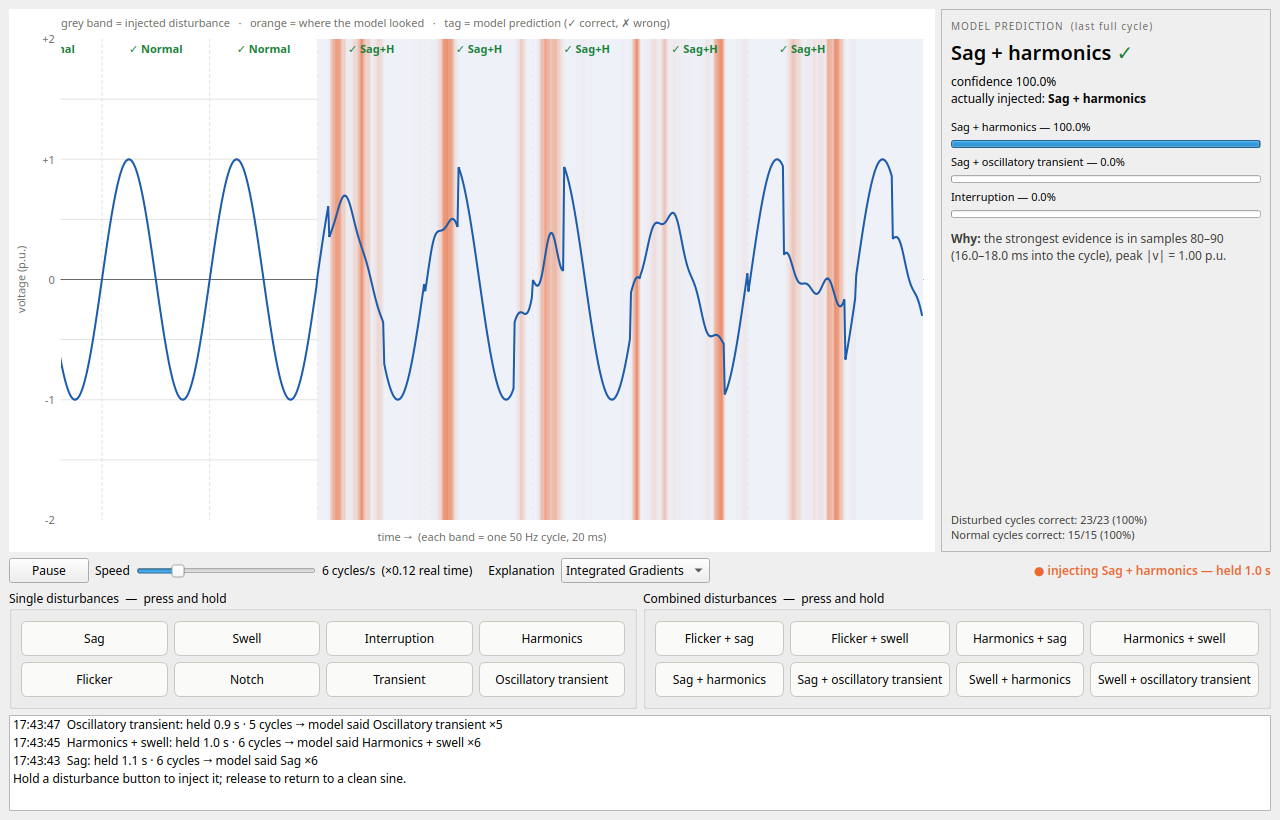
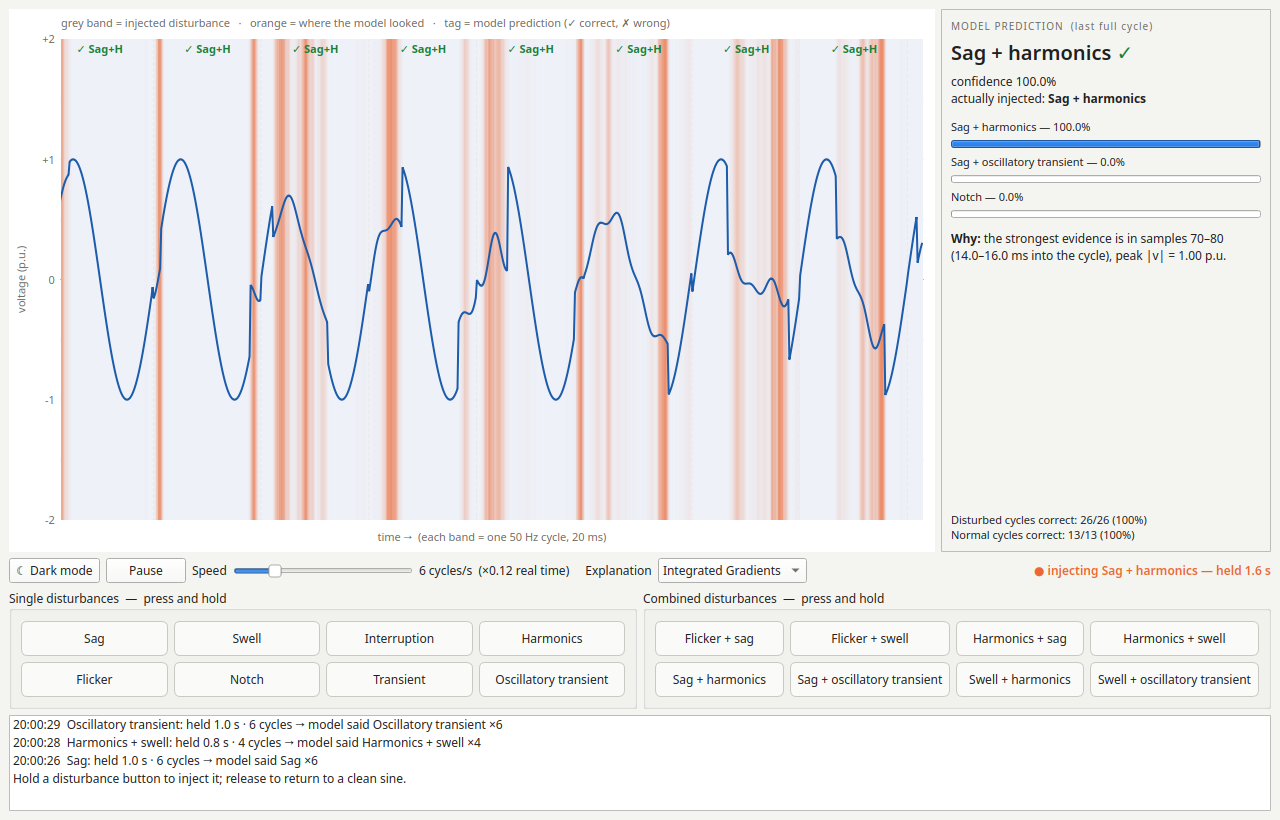
GUI: add light/dark theme toggle with explicit palette

diff --git a/src/gui.py b/src/gui.py
@@ -16,8 +16,8 @@ import time
 from collections import Counter, deque
 
 import numpy as np
-from PySide6.QtCore import QElapsedTimer, QPointF, QRectF, Qt, QTimer
-from PySide6.QtGui import QColor, QFont, QPainter, QPainterPath, QPen
+from PySide6.QtCore import QElapsedTimer, QPointF, QRectF, QSettings, Qt, QTimer
+from PySide6.QtGui import QColor, QFont, QPainter, QPainterPath, QPalette, QPen
 from PySide6.QtWidgets import (QApplication, QComboBox, QFrame, QGridLayout, QGroupBox, QHBoxLayout,
                                QLabel, QListWidget, QMainWindow, QMessageBox, QProgressBar, QPushButton,
                                QSlider, QVBoxLayout, QWidget)
@@ -29,9 +29,42 @@ VISIBLE_CYCLES = 8
 FRAME_MS = 30
 SINGLE = ["Sag", "Swell", "Interruption", "Harmonics", "Flicker", "Notch", "Transient", "Oscillatory_Transient"]
 
-INK, MUTED, GRID = QColor("#1f1f1e"), QColor("#6b6a64"), QColor("#e4e3de")
-WAVE, ATTR, INJECT = QColor("#1c5cab"), QColor("#eb6834"), QColor("#eef1f8")
-OK, BAD = QColor("#1a7f37"), QColor("#c0392b")
+# every colour in the app comes from the active theme; nothing is left to the OS palette
+THEMES = {
+    "light": dict(window="#f4f4f1", base="#ffffff", text="#1f1f1e", muted="#6b6a64", grid="#e4e3de",
+                  wave="#1c5cab", attr="#eb6834", inject="#eef1f8", ok="#1a7f37", bad="#c0392b",
+                  button="#fafaf8", border="#c9c8c1", accent="#2a78d6"),
+    "dark": dict(window="#202124", base="#17181a", text="#e8e8e6", muted="#a3a39d", grid="#34363b",
+                 wave="#6ea8ff", attr="#ff8a4c", inject="#262c3a", ok="#3fb950", bad="#ff6b5e",
+                 button="#2b2d31", border="#4a4c52", accent="#4c8fe6"),
+}
+T = dict(THEMES["light"])  # active theme, updated in place by apply_theme()
+
+
+def apply_theme(app, name):
+    """Set the Qt palette and the app stylesheet from THEMES[name]."""
+    T.update(THEMES[name])
+    pal = QPalette()
+    for role, key in ((QPalette.Window, "window"), (QPalette.WindowText, "text"), (QPalette.Base, "base"),
+                      (QPalette.AlternateBase, "window"), (QPalette.Text, "text"), (QPalette.Button, "button"),
+                      (QPalette.ButtonText, "text"), (QPalette.Highlight, "accent"),
+                      (QPalette.ToolTipBase, "base"), (QPalette.ToolTipText, "text"),
+                      (QPalette.PlaceholderText, "muted"), (QPalette.Mid, "border"), (QPalette.Dark, "border")):
+        pal.setColor(role, QColor(T[key]))
+    pal.setColor(QPalette.HighlightedText, QColor("white"))
+    for role in (QPalette.WindowText, QPalette.Text, QPalette.ButtonText):
+        pal.setColor(QPalette.Disabled, role, QColor(T["muted"]))
+    app.setPalette(pal)
+    app.setStyleSheet(f"""
+        QPushButton[dist="true"] {{ padding:8px 6px; border:1px solid {T['border']}; border-radius:6px;
+                                    background:{T['button']}; color:{T['text']}; }}
+        QPushButton[dist="true"]:hover {{ border-color:{T['accent']}; }}
+        QPushButton[dist="true"]:pressed {{ background:{T['accent']}; color:white; border-color:{T['accent']}; }}
+        QLabel#caption {{ color:{T['muted']}; font-size:10px; letter-spacing:1px; }}
+        QLabel#why, QLabel#stats {{ color:{T['text']}; }}
+        QLabel#stats {{ font-size:11px; }}
+        QLabel#holding {{ color:{T['attr']}; font-weight:600; }}
+    """)
 
 
 def short(name):
@@ -71,7 +104,7 @@ class Scope(QWidget):
     def paintEvent(self, _):
         p = QPainter(self)
         p.setRenderHint(QPainter.Antialiasing)
-        p.fillRect(self.rect(), Qt.white)
+        p.fillRect(self.rect(), QColor(T["base"]))
         plot = QRectF(52, 30, self.width() - 64, self.height() - 62)
         ymax = 2.0
         to_y = lambda v: plot.center().y() - max(-ymax, min(ymax, v)) / ymax * plot.height() / 2  # noqa: E731
@@ -82,10 +115,10 @@ class Scope(QWidget):
         to_x = lambda s: plot.left() + (s - offset) * px  # noqa: E731
 
         # axes: 0 and ±1 p.u.
-        p.setPen(QPen(GRID, 1))
+        p.setPen(QPen(QColor(T["grid"]), 1))
         for v in (-1.5, -1, -0.5, 0.5, 1, 1.5):
             p.drawLine(QPointF(plot.left(), to_y(v)), QPointF(plot.right(), to_y(v)))
-        p.setPen(QPen(MUTED, 1))
+        p.setPen(QPen(QColor(T["muted"]), 1))
         p.drawLine(QPointF(plot.left(), to_y(0)), QPointF(plot.right(), to_y(0)))
         p.setFont(QFont(p.font().family(), 8))
         for v in (-2, -1, 0, 1, 2):
@@ -103,31 +136,31 @@ class Scope(QWidget):
         for cycle, shown in self.cycles:
             x0, x1 = to_x(start), to_x(start + self.cycle_len)
             if cycle.true_class != NORMAL:                # injected disturbance band
-                p.fillRect(QRectF(x0, plot.top(), x1 - x0, plot.height()), INJECT)
+                p.fillRect(QRectF(x0, plot.top(), x1 - x0, plot.height()), QColor(T["inject"]))
             attr = {"ig": cycle.ig, "cam": cycle.cam}.get(self.attribution)
             if attr is not None and shown == self.cycle_len and cycle.true_class != NORMAL:
                 a = np.convolve(np.abs(attr), np.ones(5) / 5, mode="same")  # smooth 1 ms
                 a = a / (a.max() + 1e-9)
                 for i, w in enumerate(a):                 # attribution heat strip
-                    c = QColor(ATTR)
+                    c = QColor(T["attr"])
                     c.setAlphaF(float(w) ** 2 * 0.6)
                     p.fillRect(QRectF(to_x(start + i), plot.top(), px + 0.6, plot.height()), c)
-            p.setPen(QPen(GRID, 1, Qt.DashLine))
+            p.setPen(QPen(QColor(T["grid"]), 1, Qt.DashLine))
             p.drawLine(QPointF(x1, plot.top()), QPointF(x1, plot.bottom()))
             for i in range(shown):
                 pt = QPointF(to_x(start + i), to_y(float(cycle.samples[i])))
                 path.lineTo(pt) if path.elementCount() else path.moveTo(pt)
             if shown == self.cycle_len and cycle.pred_class:   # prediction tag
                 good = cycle.pred_class == cycle.true_class
-                p.setPen(OK if good else BAD)
+                p.setPen(QColor(T["ok" if good else "bad"]))
                 p.setFont(QFont(p.font().family(), 8, QFont.Bold))
                 p.drawText(QRectF(x0 + 2, plot.top() + 2, x1 - x0 - 4, 16), Qt.AlignCenter,
                            f"{'✓' if good else '✗'} {short(cycle.pred_class)}")
             start += self.cycle_len
-        p.setPen(QPen(WAVE, 2))
+        p.setPen(QPen(QColor(T["wave"]), 2))
         p.drawPath(path)
         p.setClipping(False)
-        p.setPen(MUTED)
+        p.setPen(QColor(T["muted"]))
         p.setFont(QFont(p.font().family(), 8))
         p.drawText(QRectF(plot.left(), 6, plot.width(), 18), Qt.AlignLeft,
                    "grey band = injected disturbance   ·   orange = where the model looked   ·   "
@@ -141,7 +174,7 @@ class PredictionPanel(QFrame):
         self.setFixedWidth(330)
         lay = QVBoxLayout(self)
         caption = QLabel("MODEL PREDICTION  (last full cycle)")
-        caption.setStyleSheet("color:#6b6a64; font-size:10px; letter-spacing:1px;")
+        caption.setObjectName("caption")
         self.pred = QLabel("—")
         self.pred.setStyleSheet("font-size:20px; font-weight:600;")
         self.pred.setWordWrap(True)
@@ -151,6 +184,7 @@ class PredictionPanel(QFrame):
         lay.addWidget(self.pred)
         lay.addWidget(self.truth)
         lay.addSpacing(6)
+        self.last = None
         self.bars = []
         for _ in range(3):
             name, bar = QLabel(""), QProgressBar()
@@ -164,16 +198,17 @@ class PredictionPanel(QFrame):
         lay.addSpacing(6)
         self.why = QLabel("")
         self.why.setWordWrap(True)
-        self.why.setStyleSheet("color:#3d3c38;")
+        self.why.setObjectName("why")
         lay.addWidget(self.why)
         lay.addStretch(1)
         self.stats = QLabel("")
-        self.stats.setStyleSheet("color:#3d3c38; font-size:11px;")
+        self.stats.setObjectName("stats")
         lay.addWidget(self.stats)
 
     def show_cycle(self, c, cycle_ms=20.0):
+        self.last = c
         good = c.pred_class == c.true_class
-        color = "#1a7f37" if good else "#c0392b"
+        color = T["ok" if good else "bad"]
         self.pred.setText(f"{pretty(c.pred_class)}  <span style='color:{color}'>{'✓' if good else '✗'}</span>")
         self.truth.setText(f"confidence {c.confidence:.1%}<br>actually injected: <b>{pretty(c.true_class)}</b>")
         for (name, bar), (cls, prob) in zip(self.bars, c.top3):
@@ -192,8 +227,9 @@ class PredictionPanel(QFrame):
 
 
 class MainWindow(QMainWindow):
-    def __init__(self, ckpt, speed):
+    def __init__(self, ckpt, speed, theme):
         super().__init__()
+        self.theme = theme
         self.setWindowTitle("PQD Explainer — live disturbance injection")
         self.stream = DisturbanceStream()
         self.clf = LiveClassifier(self.stream.class_names, self.stream.mean, self.stream.std, ckpt,
@@ -241,27 +277,40 @@ class MainWindow(QMainWindow):
         self.attr.addItems(["Integrated Gradients", "Class Activation Map", "No explanation"])
         self.attr.currentIndexChanged.connect(lambda i: setattr(self.scope, "attribution", ("ig", "cam", None)[i]))
         self.holding = QLabel("")
-        self.holding.setStyleSheet("color:#eb6834; font-weight:600;")
+        self.holding.setObjectName("holding")
+        self.theme_btn = QPushButton()
+        self.theme_btn.clicked.connect(lambda: self.set_theme("light" if self.theme == "dark" else "dark"))
+        row.addWidget(self.theme_btn)
+        self._theme_text()
         for w in (self.pause, QLabel("Speed"), self.speed, self.speed_label, QLabel("   Explanation"), self.attr):
             row.addWidget(w)
         row.addStretch(1)
         row.addWidget(self.holding)
         return row
 
+    def _theme_text(self):
+        self.theme_btn.setText("☀ Light mode" if self.theme == "dark" else "☾ Dark mode")
+
+    def set_theme(self, name):
+        self.theme = name
+        apply_theme(QApplication.instance(), name)
+        QSettings("pqd-explainer", "gui").setValue("theme", name)
+        self._theme_text()
+        if self.panel.last:
+            self.panel.show_cycle(self.panel.last)   # re-colour the ✓ / ✗
+        self.scope.update()
+
     def _speed_text(self, v):
         self.speed_label.setText(f"{v} cycles/s  (×{v / 50:.2f} real time)")
 
     def _buttons(self):
         row = QHBoxLayout()
-        style = ("QPushButton{padding:8px 6px; border:1px solid #c9c8c1; border-radius:6px; background:#fafaf8;}"
-                 "QPushButton:hover{border-color:#2a78d6;}"
-                 "QPushButton:pressed{background:#2a78d6; color:white; border-color:#2a78d6;}")
         combined = [n for n in self.stream.disturbances if n not in SINGLE]
         for title, names in (("Single disturbances", SINGLE), ("Combined disturbances", combined)):
             box, grid = QGroupBox(f"{title}  —  press and hold"), QGridLayout()
             for i, name in enumerate(names):
                 b = QPushButton(pretty(name))
-                b.setStyleSheet(style)
+                b.setProperty("dist", True)
                 b.setAutoRepeat(False)
                 b.pressed.connect(lambda n=name: self._press(n))
                 b.released.connect(lambda n=name: self._release(n))
@@ -347,6 +396,7 @@ def main():
     ap.add_argument("--ckpt", default=GUI_CKPT, help="checkpoint relative to the repo root")
     ap.add_argument("--speed", type=int, default=6, help="playback speed in cycles per second (1-25)")
     ap.add_argument("--demo", metavar="PNG", help="run a scripted demo, save a screenshot and exit")
+    ap.add_argument("--theme", choices=list(THEMES), help="colour theme (default: last used, else the OS setting)")
     a = ap.parse_args()
     app = QApplication(sys.argv)
     app.setStyle("Fusion")
@@ -356,7 +406,11 @@ def main():
                              "--models resnet_cam --seeds 0 --epochs 40 --patience 15\n\nthen copy "
                              "outputs/benchmark/ckpt/xpqrs_sync_resnet_cam_s0.pth to models/resnet_cam_xpqrs_sync.pth")
         return 1
-    win = MainWindow(a.ckpt, max(1, min(25, a.speed)))
+    os_dark = app.styleHints().colorScheme() == Qt.ColorScheme.Dark
+    theme = a.theme or QSettings("pqd-explainer", "gui").value("theme") or ("dark" if os_dark else "light")
+    theme = theme if theme in THEMES else "light"   # ignore a corrupted settings value
+    apply_theme(app, theme)
+    win = MainWindow(a.ckpt, max(1, min(25, a.speed)), theme)
     win.show()
     if a.demo:
         run_demo(win, app, a.demo)

diff --git a/docs/GUI.md b/docs/GUI.md
@@ -4,7 +4,9 @@ A desktop application, written with **Qt for Python (PySide6, widgets only)**,
 that lets you *play* power-quality disturbances into a live waveform and watch
 the model classify and explain every cycle as it arrives.
 
-![GUI screenshot](figures/gui.png)
+| Light theme | Dark theme |
+|---|---|
+| ![GUI screenshot, light theme](figures/gui.png) | ![GUI screenshot, dark theme](figures/gui_dark.png) |
 
 ```bash
 python src/gui.py                 # start the app
@@ -41,6 +43,7 @@ python src/gui.py --speed 3       # slower playback (cycles per second, 1-25)
 | Speed slider | playback speed, 1–25 cycles per second |
 | Explanation menu | Integrated Gradients · Class Activation Map · none |
 | Pause / Resume | freeze the scope to inspect a cycle |
+| ☾ Dark mode / ☀ Light mode | switch colour theme; the choice is remembered for the next start |
 
 ## Where the waveforms come from
 
@@ -131,6 +134,11 @@ flowchart LR
   p.u. axis, grey bands for injected cycles, the attribution as a smoothed
   orange heat strip, the waveform as one antialiased path, and a ✓/✗ tag per
   cycle. No plotting library is involved.
+* **Themes.** All colours live in `gui.THEMES` (light / dark). `apply_theme`
+  sets an explicit Qt palette plus one app-wide stylesheet, so the app never
+  inherits OS colours it was not designed for (white-on-white button text on a
+  dark desktop was the original bug). The scope reads the same table when it
+  paints.
 
 ## Command-line options
 
@@ -138,6 +146,7 @@ flowchart LR
 |---|---|---|
 | `--speed N` | 6 | playback speed in cycles per second (1–25) |
 | `--ckpt PATH` | `models/resnet_cam_xpqrs_sync.pth` | checkpoint to load (relative to the repo root) |
+| `--theme light\|dark` | last used, else the OS setting | colour theme |
 | `--demo PNG` | — | run a scripted sequence of presses, save a screenshot to `PNG`, exit (used for `docs/figures/gui.png`; works headless with `QT_QPA_PLATFORM=offscreen`) |
 
 ## Tests
